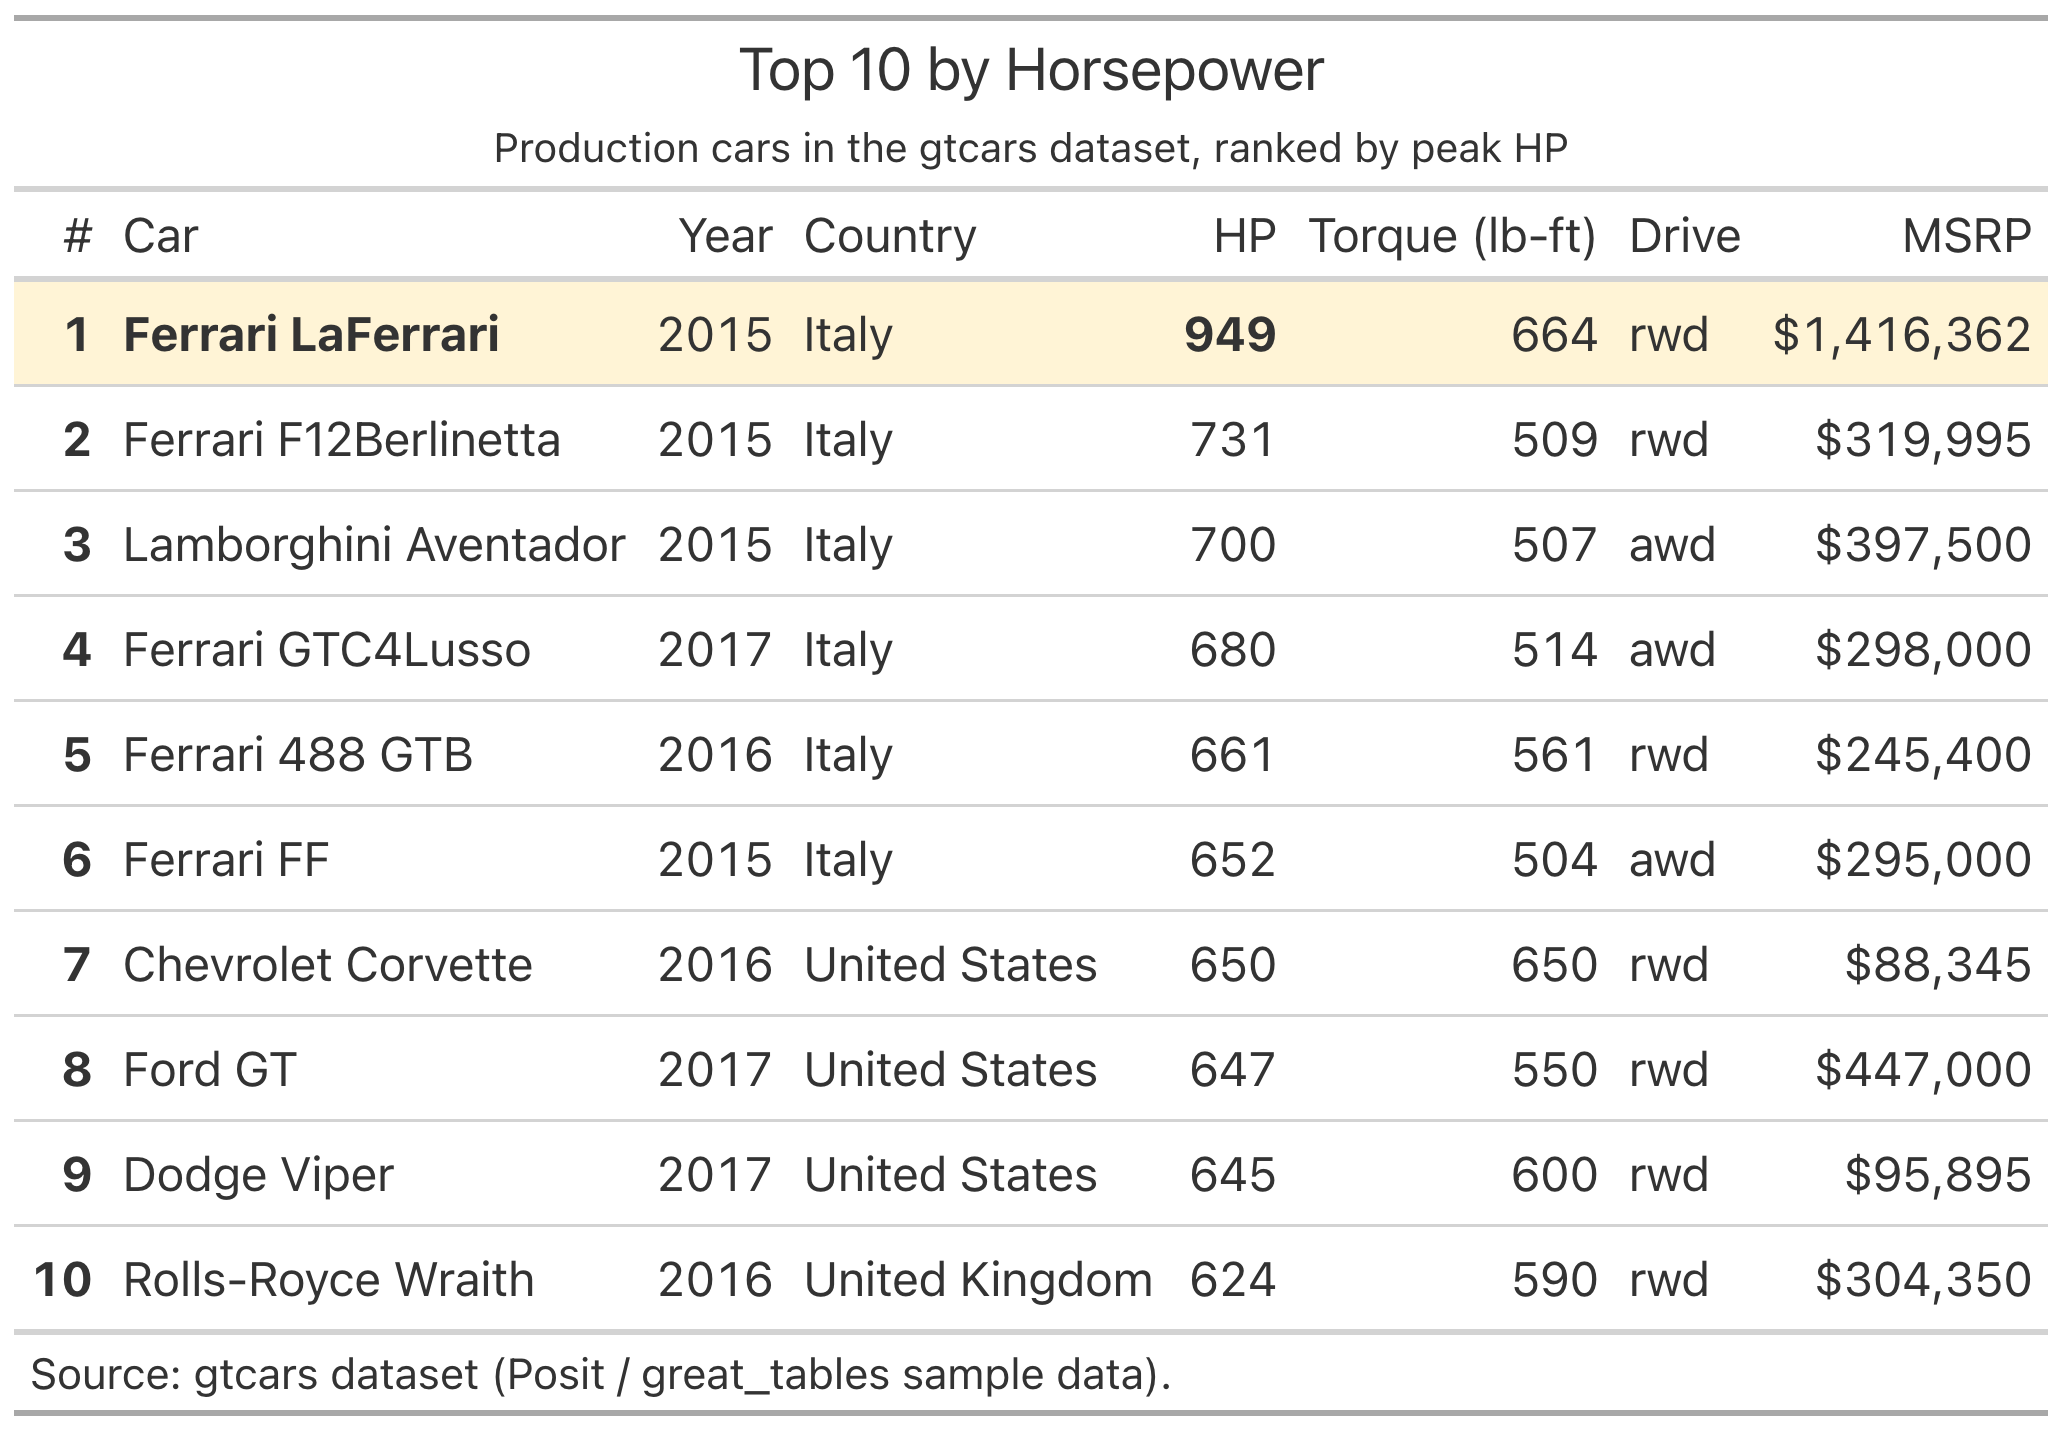
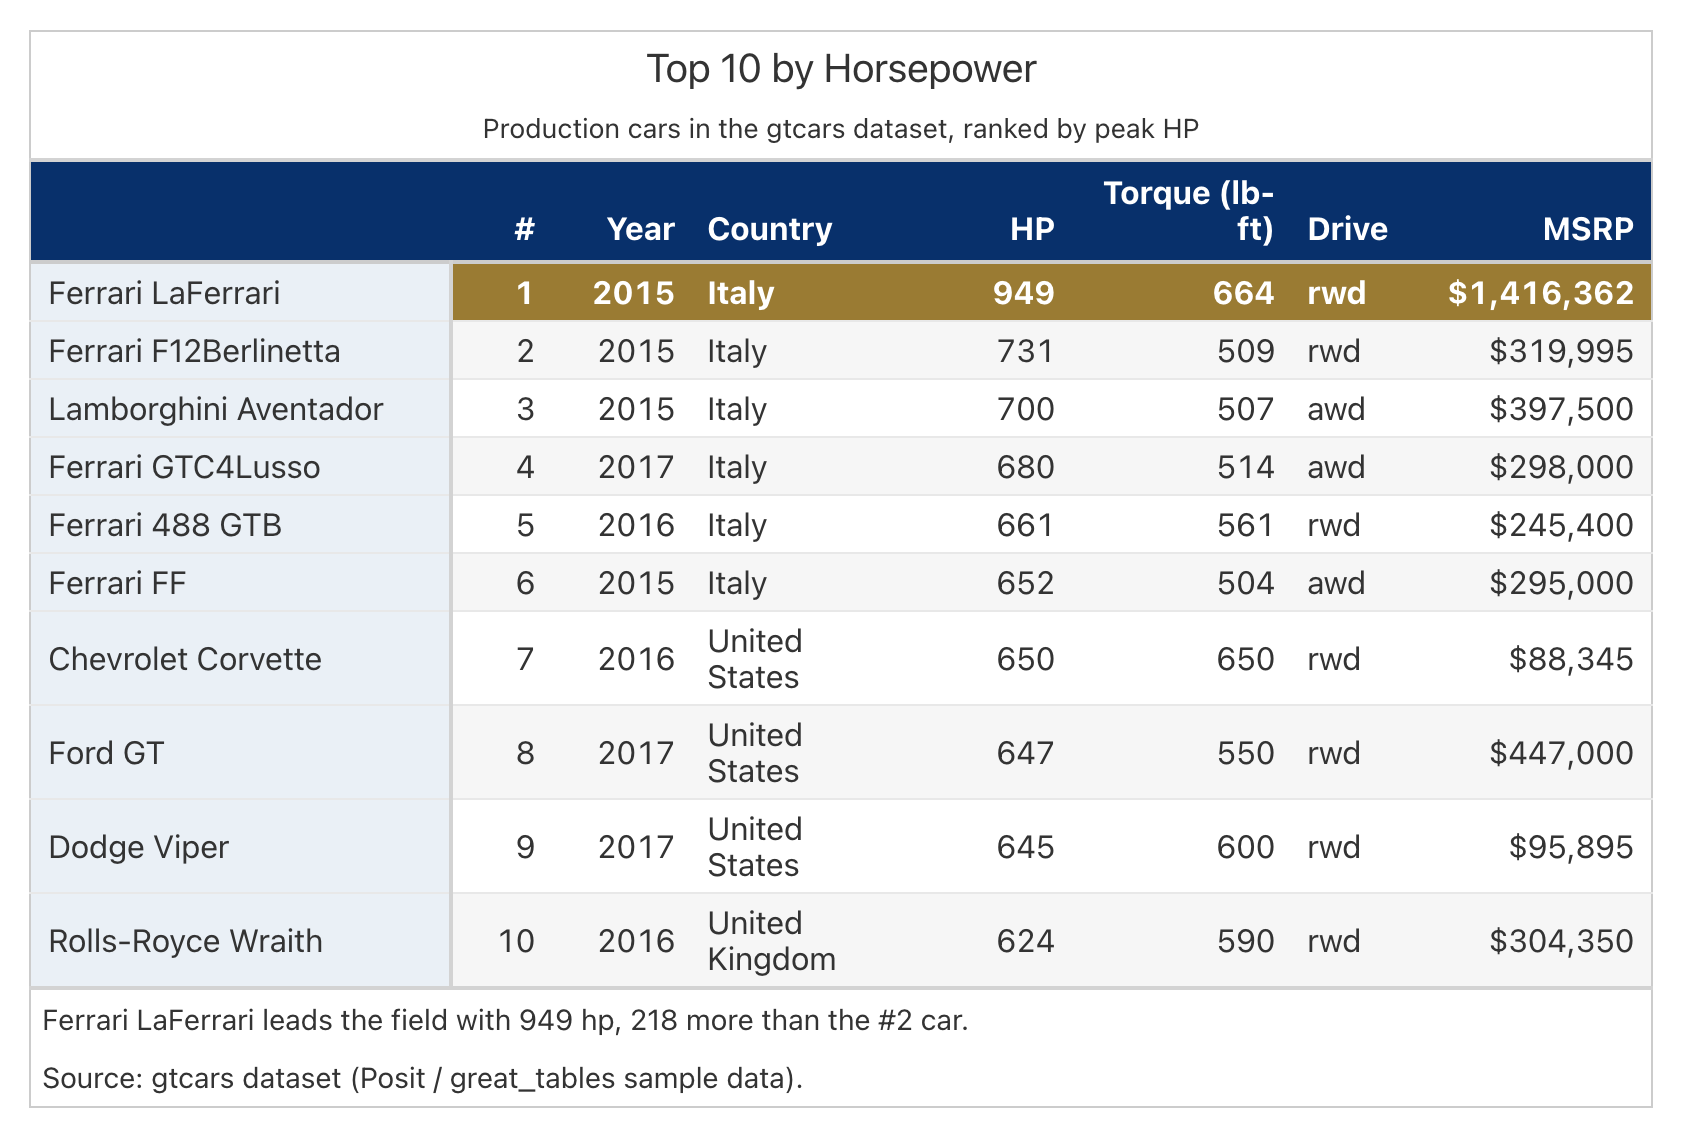
fix(examples): remove bold-uncolored-column violation in ranking archetype
rank had no color fill but was bolded as a "consolation" treatment — the
exact whole-column bold-without-fill pattern the rules now explicitly
forbid. Removed. The #1 leader is now called out with a proper
full-row-highlight per big_color/full_row_highlight.md: a solid Dark
Academia hex (Ochre, "featured/winner") with white bold text spanning
every body column, replacing the previous non-palette pale-cream fill
plus a car/hp-only bold. hp/trq/msrp/rank all render fully plain outside
that one row.

Also add the stub (rowname_col=car) with its fixed tint, the mandatory
heading band, row striping, frame, cols_width+padding block, and a second
tab_source_note stating an actual finding (the HP gap to #2). Added the
missing `gt = ...` binding and gt.gtsave(...) call.

Practical-relevance note: did not also add a column_gradient_fill on hp.
The archetype's stated story is "the leader visually called out" — a
Top-N highlight, not a full heatmap — so stacking a gradient on top would
compete with the highlight per full_row_highlight.md's own rule ("do not
stack a full-row highlight on top of a column gradient").

Mirrored identically in great-tables-ci/.

diff --git a/.claude/skills/great-tables-ci/assets/examples/ranking/ranking.py b/.claude/skills/great-tables-ci/assets/examples/ranking/ranking.py
@@ -19,25 +19,72 @@ top = df.sort_values("hp", ascending=False).head(10).reset_index(drop=True)
 top["rank"] = top.index + 1  # 1-based; leaderboards start at #1, not #0.
 top = top[["rank", "car", "year", "ctry_origin", "hp", "trq", "drivetrain", "msrp"]]
 
-(
-    GT(top)
+leader = top.loc[0, "car"]
+leader_hp = int(top.loc[0, "hp"])
+runner_up_hp = int(top.loc[1, "hp"])
+
+gt = (
+    GT(top, rowname_col="car")
     .tab_header(
         title="Top 10 by Horsepower",
         subtitle="Production cars in the gtcars dataset, ranked by peak HP",
     )
     .cols_label(
-        rank="#", car="Car", year="Year", ctry_origin="Country",
+        rank="#", year="Year", ctry_origin="Country",
         hp="HP", trq="Torque (lb-ft)", drivetrain="Drive", msrp="MSRP",
     )
     .fmt_currency(columns=["msrp"], currency="USD", decimals=0)
     .fmt_integer(columns=["hp", "trq"])
     # use_seps=False on year — `2,017` is wrong for a year.
     .fmt_integer(columns=["year"], use_seps=False)
-    # Bold the rank column so the index pops, then highlight the leader row.
-    .tab_style(style=style.text(weight="bold"), locations=loc.body(columns=["rank"]))
-    .tab_style(style=style.fill(color="#fff4d6"), locations=loc.body(rows=[0]))
-    .tab_style(style=style.text(weight="bold"), locations=loc.body(columns=["car", "hp"], rows=[0]))
-    .cols_align(align="left", columns=["car", "ctry_origin", "drivetrain"])
+    # Full-row highlight on the #1 leader (a Top-N "winner" story) — a solid
+    # Dark Academia hex with white text, spanning every body column. Rank and
+    # the other measures otherwise render fully plain: no consolation bold.
+    .tab_style(
+        style=[style.fill(color="#9A7B33"), style.text(color="#ffffff", weight="bold")],
+        locations=loc.body(rows=[0]),
+    )
+    .cols_align(align="left", columns=["ctry_origin", "drivetrain"])
     .cols_align(align="right", columns=["rank", "year", "hp", "trq", "msrp"])
+    # Heading band — fixed branding navy, bold labels, white text, every table.
+    .tab_options(
+        column_labels_background_color="#08306B",
+        column_labels_font_weight="bold",
+        column_labels_border_bottom_color="#CCCCCC",
+        column_labels_border_bottom_width="2px",
+    )
+    .tab_style(style=style.text(color="white"), locations=loc.column_labels())
+    # Stub tint — fixed branding hex, unconditional whenever a stub exists.
+    # Uniform across every row, including the highlighted leader.
+    .tab_style(style=style.fill(color="#EAF0F6"), locations=loc.stub())
+    # Row striping — default on every table (only one row is highlighted).
+    .opt_row_striping()
+    .tab_options(
+        row_striping_background_color="#F6F6F6",
+        table_body_hlines_style="solid",
+        table_body_hlines_color="#E8E8E8",
+        table_body_hlines_width="1px",
+        table_border_top_style="solid", table_border_top_color="#CCCCCC", table_border_top_width="1px",
+        table_border_bottom_style="solid", table_border_bottom_color="#CCCCCC", table_border_bottom_width="1px",
+        table_border_left_style="solid", table_border_left_color="#CCCCCC", table_border_left_width="1px",
+        table_border_right_style="solid", table_border_right_color="#CCCCCC", table_border_right_width="1px",
+    )
+    .cols_width(cases={
+        "car": "210px", "rank": "50px", "year": "70px", "ctry_origin": "110px",
+        "hp": "80px", "trq": "110px", "drivetrain": "70px", "msrp": "110px",
+    })
+    .tab_options(
+        heading_padding="6px",
+        column_labels_padding="6px",
+        column_labels_padding_horizontal="8px",
+        data_row_padding="5px",
+        data_row_padding_horizontal="8px",
+        source_notes_padding="6px",
+    )
+    .tab_source_note(
+        source_note=f"{leader} leads the field with {leader_hp} hp, {leader_hp - runner_up_hp} more than the #2 car."
+    )
     .tab_source_note(source_note="Source: gtcars dataset (Posit / great_tables sample data).")
 )
+
+gt.gtsave("ranking.png", zoom=2.0, expand=15)

diff --git a/.claude/skills/great-tables/assets/examples/ranking/ranking.py b/.claude/skills/great-tables/assets/examples/ranking/ranking.py
@@ -19,25 +19,72 @@ top = df.sort_values("hp", ascending=False).head(10).reset_index(drop=True)
 top["rank"] = top.index + 1  # 1-based; leaderboards start at #1, not #0.
 top = top[["rank", "car", "year", "ctry_origin", "hp", "trq", "drivetrain", "msrp"]]
 
-(
-    GT(top)
+leader = top.loc[0, "car"]
+leader_hp = int(top.loc[0, "hp"])
+runner_up_hp = int(top.loc[1, "hp"])
+
+gt = (
+    GT(top, rowname_col="car")
     .tab_header(
         title="Top 10 by Horsepower",
         subtitle="Production cars in the gtcars dataset, ranked by peak HP",
     )
     .cols_label(
-        rank="#", car="Car", year="Year", ctry_origin="Country",
+        rank="#", year="Year", ctry_origin="Country",
         hp="HP", trq="Torque (lb-ft)", drivetrain="Drive", msrp="MSRP",
     )
     .fmt_currency(columns=["msrp"], currency="USD", decimals=0)
     .fmt_integer(columns=["hp", "trq"])
     # use_seps=False on year — `2,017` is wrong for a year.
     .fmt_integer(columns=["year"], use_seps=False)
-    # Bold the rank column so the index pops, then highlight the leader row.
-    .tab_style(style=style.text(weight="bold"), locations=loc.body(columns=["rank"]))
-    .tab_style(style=style.fill(color="#fff4d6"), locations=loc.body(rows=[0]))
-    .tab_style(style=style.text(weight="bold"), locations=loc.body(columns=["car", "hp"], rows=[0]))
-    .cols_align(align="left", columns=["car", "ctry_origin", "drivetrain"])
+    # Full-row highlight on the #1 leader (a Top-N "winner" story) — a solid
+    # Dark Academia hex with white text, spanning every body column. Rank and
+    # the other measures otherwise render fully plain: no consolation bold.
+    .tab_style(
+        style=[style.fill(color="#9A7B33"), style.text(color="#ffffff", weight="bold")],
+        locations=loc.body(rows=[0]),
+    )
+    .cols_align(align="left", columns=["ctry_origin", "drivetrain"])
     .cols_align(align="right", columns=["rank", "year", "hp", "trq", "msrp"])
+    # Heading band — fixed branding navy, bold labels, white text, every table.
+    .tab_options(
+        column_labels_background_color="#08306B",
+        column_labels_font_weight="bold",
+        column_labels_border_bottom_color="#CCCCCC",
+        column_labels_border_bottom_width="2px",
+    )
+    .tab_style(style=style.text(color="white"), locations=loc.column_labels())
+    # Stub tint — fixed branding hex, unconditional whenever a stub exists.
+    # Uniform across every row, including the highlighted leader.
+    .tab_style(style=style.fill(color="#EAF0F6"), locations=loc.stub())
+    # Row striping — default on every table (only one row is highlighted).
+    .opt_row_striping()
+    .tab_options(
+        row_striping_background_color="#F6F6F6",
+        table_body_hlines_style="solid",
+        table_body_hlines_color="#E8E8E8",
+        table_body_hlines_width="1px",
+        table_border_top_style="solid", table_border_top_color="#CCCCCC", table_border_top_width="1px",
+        table_border_bottom_style="solid", table_border_bottom_color="#CCCCCC", table_border_bottom_width="1px",
+        table_border_left_style="solid", table_border_left_color="#CCCCCC", table_border_left_width="1px",
+        table_border_right_style="solid", table_border_right_color="#CCCCCC", table_border_right_width="1px",
+    )
+    .cols_width(cases={
+        "car": "210px", "rank": "50px", "year": "70px", "ctry_origin": "110px",
+        "hp": "80px", "trq": "110px", "drivetrain": "70px", "msrp": "110px",
+    })
+    .tab_options(
+        heading_padding="6px",
+        column_labels_padding="6px",
+        column_labels_padding_horizontal="8px",
+        data_row_padding="5px",
+        data_row_padding_horizontal="8px",
+        source_notes_padding="6px",
+    )
+    .tab_source_note(
+        source_note=f"{leader} leads the field with {leader_hp} hp, {leader_hp - runner_up_hp} more than the #2 car."
+    )
     .tab_source_note(source_note="Source: gtcars dataset (Posit / great_tables sample data).")
 )
+
+gt.gtsave("ranking.png", zoom=2.0, expand=15)
